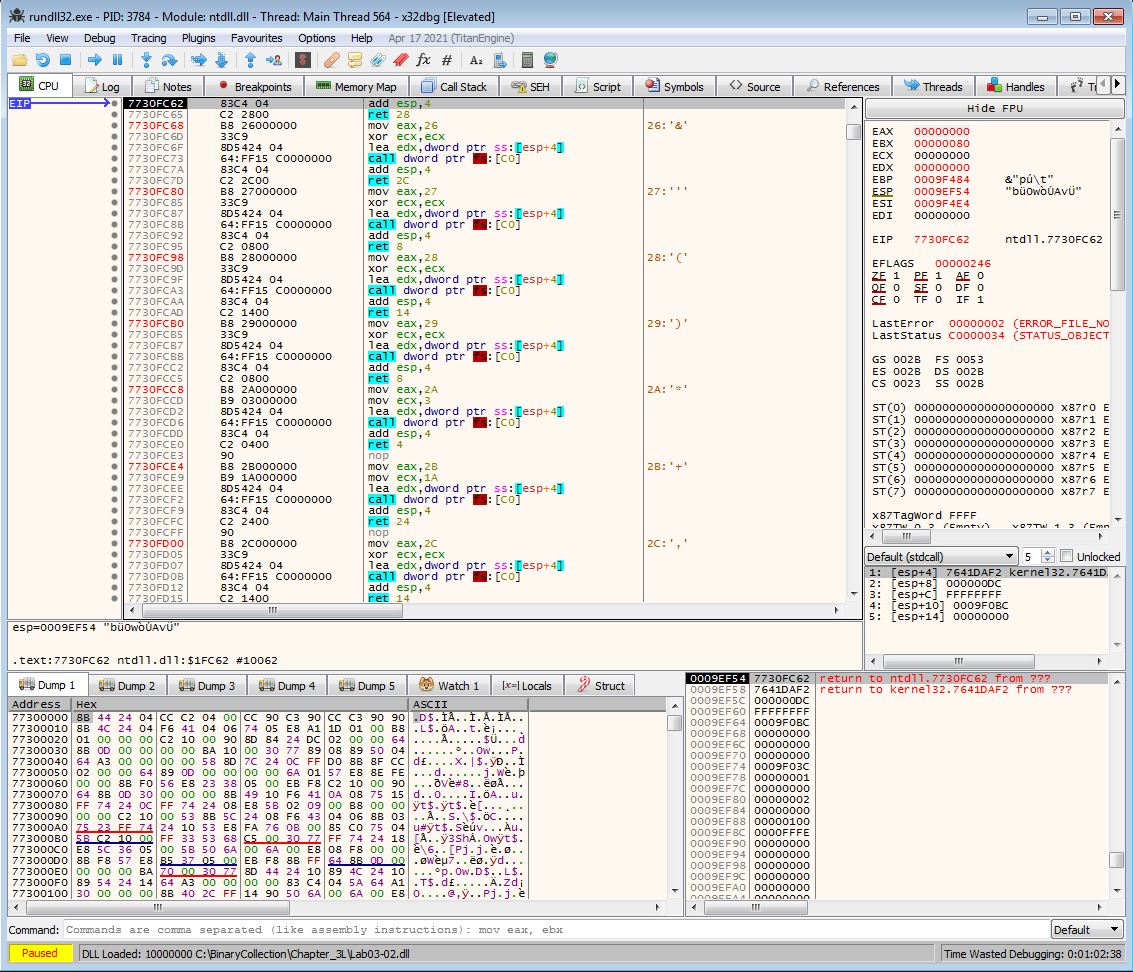
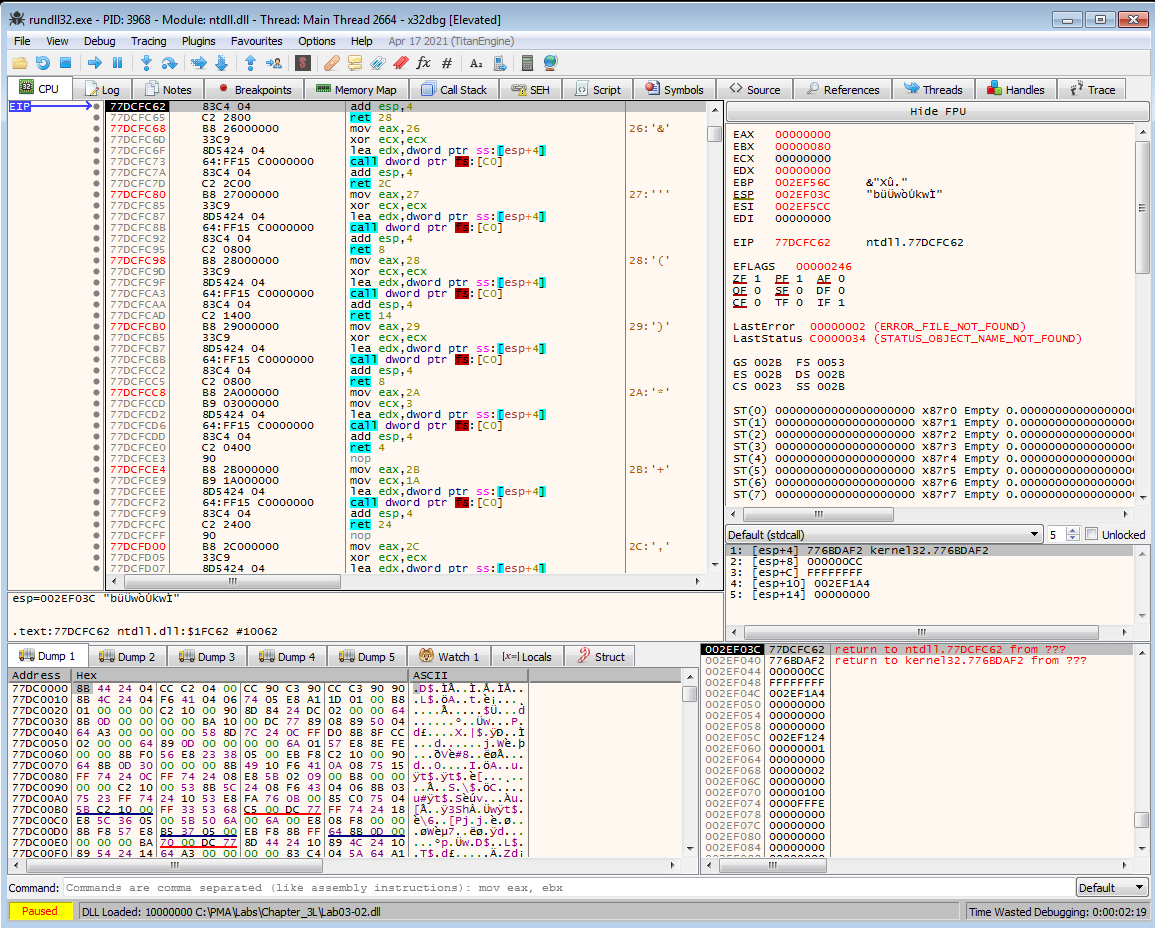
adding

diff --git a/Chap3/Lab_3-2/README.md b/Chap3/Lab_3-2/README.md
@@ -107,8 +107,15 @@ Into this:
 
 ![3-2: After](Images/3-2-13.png)
 
-This amount of reversing should be sufficient for now. Back to x32dbg, we can set a breakpoint on the address for the Install function and then step through the dissassembly while referring to the decompliled code in Ghidra/IDA.
+This amount of reversing should be sufficient for now. Back to x32dbg, we can set a breakpoint on the address for the Install function and then step through the dissassembly while referring to the decompliled code in Ghidra/IDA. 
 
+![3-2: Debugging Install](Images/3-2-14.png)
+
+We can find the Install function in the Symbol table of x32dbg because Install was an exported function in the DLL. The addresses between x32dbg and Ghidra/IDA should line up (in this case they did). Note: I made the mistake of using x64dbg at first, instead of x32dbg, and I had issues with hitting the Install function breakpoint. So if you're not seeing the results you're expecting, try the other one.
+
+![3-2: Debugging Install Deeper](Images/3-2-15.png)
+
+Now we can see the similarities between the two applications and step through them live to see the actual return values or errors.
 
 ## Summary
 
